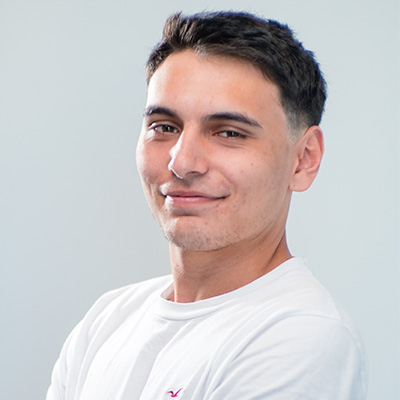
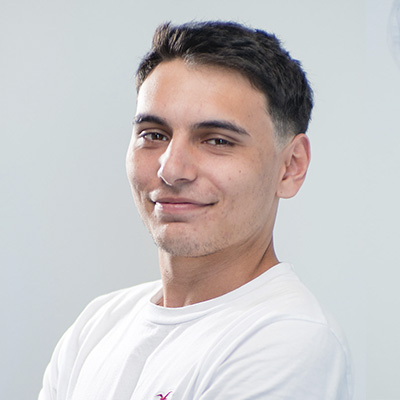
[ADD RAY PHOTO AND UDPATE OTHERS]

diff --git a/2. Testing/CryptoGateway_WEB/test404style.css b/2. Testing/CryptoGateway_WEB/test404style.css
@@ -1,0 +1,72 @@
+/* Google Font Link */
+
+body{
+  min-height: 40vh;
+  display: flex;
+  align-items: center;
+  justify-content: center;
+  background-image: url("images/background404.jpg");
+  background-size: cover;
+  background-repeat: no-repeat;
+  background-attachment: fixed;
+  background-position: center;
+  padding: 30px;
+  font-family: 'Poppins';
+}
+.container{
+
+    position: absolute;
+    top: 20%;
+    width: 40%;
+    height: 55%;
+    text-align: center;
+    padding: 10px;
+    align-items: center;
+    justify-content: center;
+}
+
+h1{
+    color: #8c43ff;
+    font-size: 200px;
+    margin-top: -50px;
+}
+.firstp{
+    color: #8c43ff;
+    margin-top: -190px;
+    font-size: 32px;
+    font-weight: bold;
+}
+.secondp{
+    color: #8c43ff;
+    font-size: 21px;
+    margin-top: -35px;
+}
+.contboton{
+    position: relative;
+    background: #8c43ff;
+    color: white;
+    font-weight: 600;
+    padding: 20px 0;
+    height: 20px;
+    width: 50%;
+    left: 25%;
+    cursor: pointer;
+}
+.contboton:hover{
+    background: #7e2ffc;
+}
+
+@media (max-width: 768px){
+
+    .container{
+        width: 70%;
+        height: 60%;
+        top: 15%;
+    }
+    h1{
+        font-size: 100px;
+    }
+}
+
+
+

diff --git a/2. Testing/CryptoGateway_WEB/the_404.html b/2. Testing/CryptoGateway_WEB/the_404.html
@@ -1,0 +1,24 @@
+<!DOCTYPE html>
+<html lang="en">
+    <head>
+        <meta charset="UTF-8">
+        <title>404</title>
+        <!-- Favicons -->
+        <link rel="icon" href="images/favicons/favicon_cg.png">
+        <!--<title> Login and Registration Form-->
+        <link rel="stylesheet" href="test404style.css">
+        <!-- Fontawesome CDN Link -->
+        <link rel="stylesheet" href="https://cdnjs.cloudflare.com/ajax/libs/font-awesome/5.15.3/css/all.min.css">
+        <meta name="viewport" content="width=device-width, initial-scale=1.0">
+       </head>
+<body>
+    <div class="container">
+        <img class="imageee" src="images/logo_CG.png" height="50px">
+        <h1>404</h1>
+        <p class="firstp">It's Look like you are lost</p>
+        <p class="secondp">The page you are looking for isn't here</p>
+        <div onclick="location.href='index.html'" class="contboton">Go Back Home</div>
+    </div>
+    
+</body>
+</html>

diff --git a/2. Testing/CryptoGateway_WEB/index.html b/2. Testing/CryptoGateway_WEB/index.html
@@ -127,7 +127,7 @@
 						<li><a href="https://www.linkedin.com/in/diego-monfort-3226a9222/" target="https://www.linkedin.com/in/diego-monfort-3226a9222/"><i class="icon icon-linkedin2"></i></a></li>
 					</ul>
 				</div>
-				<div class="col-sm-4"> <img src="images/photo-team-1.jpg" class="img-circle screen" alt="Team 4" width="200">
+				<div class="col-sm-4"> <img src="images/photo-team-8.jpg" class="img-circle screen" alt="Team 4" width="200">
 					<h3 class="name">Raymundo Barrera</h3>
 					<h4 class="occupation">Technical Leader</h4>
 					<p>Ray is passionate about technologies and is working on his process of becoming a programmer. He has studies in law and economics.</p>
